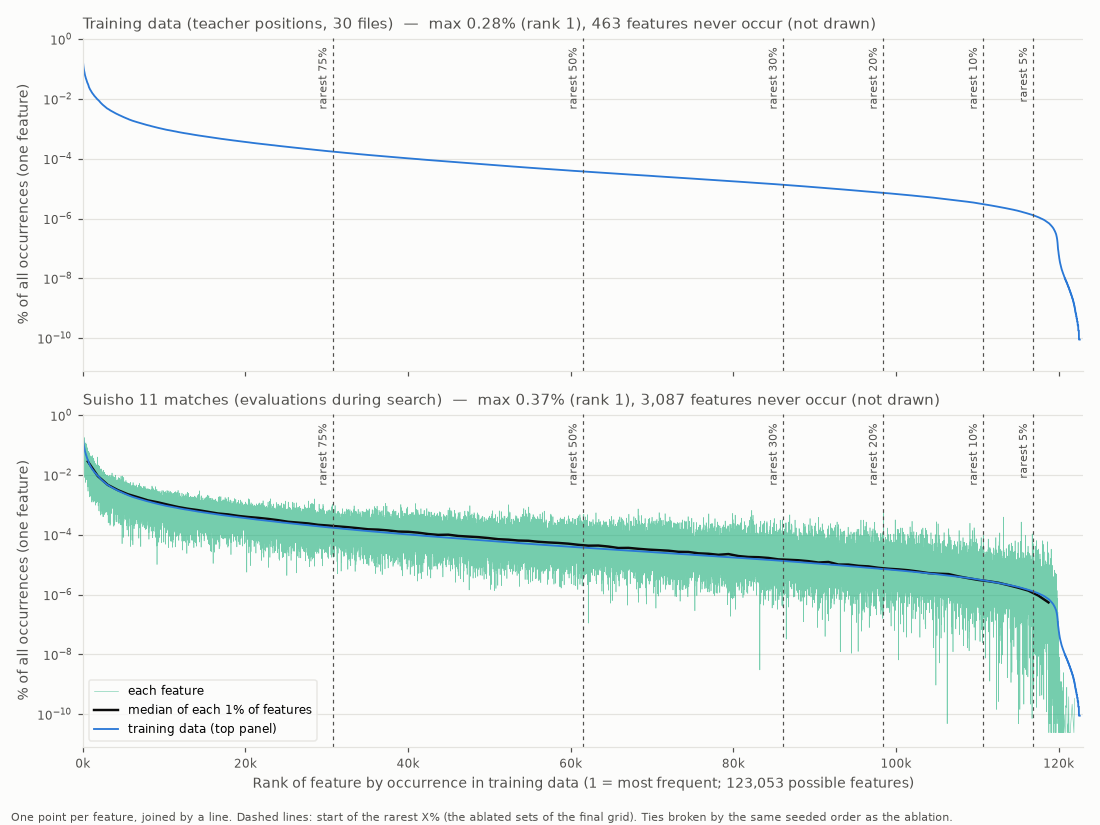
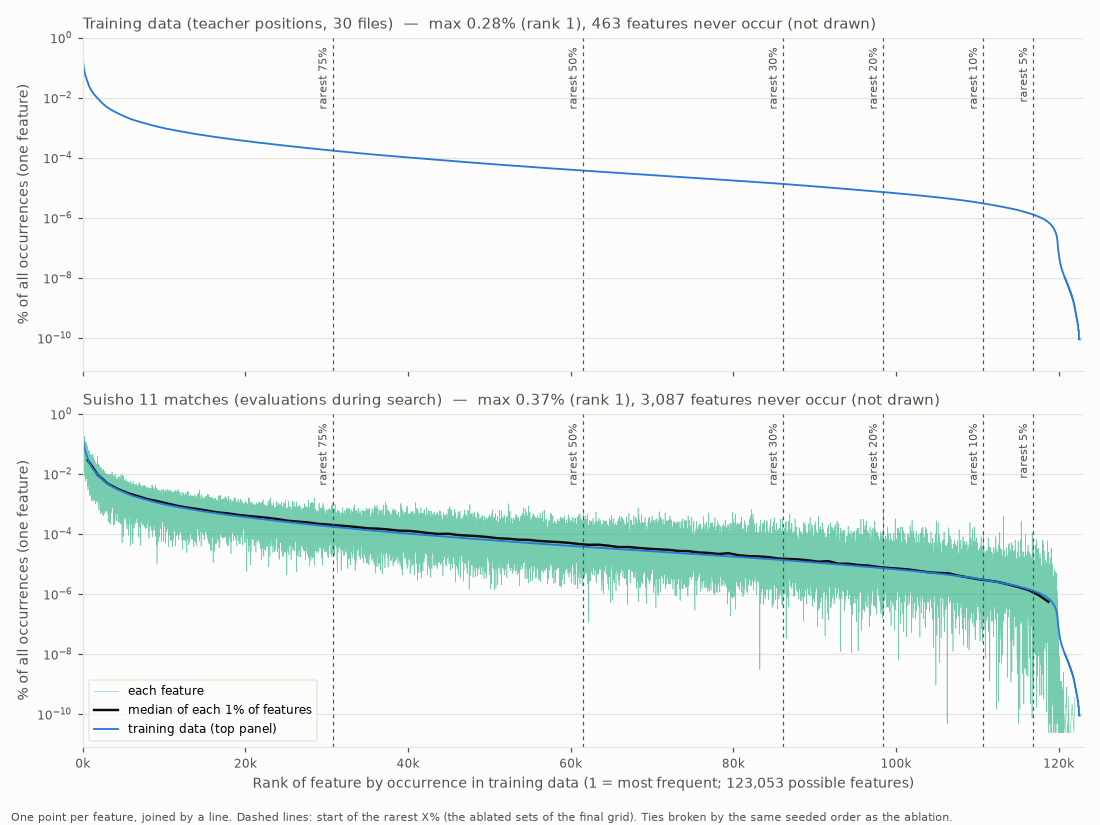
exp: 009 per-feature rank plot, training-data-only version
Claude-Session: https://claude.ai/code/session_01YJdawcYFSvVniYuyJpM5c4

diff --git a/experiments/009-data-scaling/feature_count/plot_rank_hist.py b/experiments/009-data-scaling/feature_count/plot_rank_hist.py
@@ -7,6 +7,7 @@
 - `feature_rank_hist.png`: 順位を 1% ずつ (約 1,231 個ずつ) の区間に分けたヒストグラム。縦軸 = 区間の出現の割合
 - `feature_rank_line.png`: 1 特徴量 = 1 点の折れ線。縦軸 = その特徴量 1 個の出現の割合
 - `feature_rank_line_match.png`: 上の図の下段 (対局) だけ
+- `feature_rank_line_teacher.png`: 上の図の上段 (教師) だけ
 
     .venv/bin/python experiments/009-data-scaling/feature_count/plot_rank_hist.py
 """
@@ -112,7 +113,10 @@ def plot_per_feature(panels: list, n: int, idx: tuple[int, ...], out: Path, heig
                     label=ref_label)  # fmt: skip
             ax.legend(loc="lower left", fontsize=8, frameon=True, facecolor=SURFACE, edgecolor=GRID)
         ax.set_yscale("log")
-        ylo, yhi = min(ylo, share[pos].min() / 3), max(yhi, share.max() * 3)
+        top = 10 ** np.ceil(
+            np.log10(share.max() * 1.2)
+        )  # 上端は 10 のべき (1 段だけの図でも 1% の目盛が出る)
+        ylo, yhi = min(ylo, share[pos].min() / 3), max(yhi, top)
         cutoffs(ax, n)
         zero = f", {int((~pos).sum()):,} features never occur (not drawn)" if (~pos).any() else ""
         ax.set_title(f"{title}  —  max {share.max():.2f}% (rank {int(share.argmax()) + 1}){zero}",
@@ -150,6 +154,7 @@ def main() -> None:
     plot_bins(panels, n)
     plot_per_feature(panels, n, (0, 1), FIG / "feature_rank_line.png", 7.5)
     plot_per_feature(panels, n, (1,), FIG / "feature_rank_line_match.png", 4.6)
+    plot_per_feature(panels, n, (0,), FIG / "feature_rank_line_teacher.png", 4.6)
 
 
 if __name__ == "__main__":
